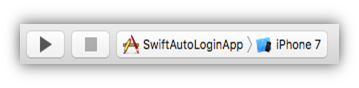
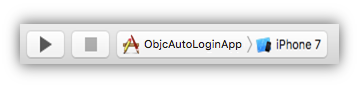
fix readme objective-c

Changed region(s): [[0.3983, 0.4318, 0.6741, 0.5909]]

diff --git a/README.md b/README.md
@@ -1,4 +1,4 @@
-# 【iOS Swift】自動ログイン機能を実装しよう！
+# 【iOS Objective-C】自動ログイン機能を実装しよう！
 ![画像1](/readme-img/001.png)
 
 ## 概要
@@ -14,10 +14,10 @@
 ![画像2](/readme-img/002.png)
 
 ## 動作環境
-* Mac OS X 10.12(Sierra)
-* Xcode ver. 8.0
-* Simulator ver. 10.0
- * iPhone7
+* Mac OS X 10.11.6(El Capitan)
+* Xcode ver. 8.1
+* iPhone5 iOS 9.3.5
+* iPhone6s iOS 10.0.1
 
 ※上記内容で動作確認をしています。
 
@@ -34,21 +34,21 @@
 
 ### 2. GitHubからサンプルプロジェクトのダウンロード
 * 下記リンクをクリックしてプロジェクトをMacにダウンロードします
- * __[SwiftAutoLoginApp](https://github.com/natsumo/SwiftAutoLoginApp/archive/master.zip)__
+ * __[ObjcAutoLoginApp](https://github.com/NIFTYCloud-mbaas/ObjcAutoLoginApp/archive/master.zip)__
 
 ### 3. Xcodeでアプリを起動
-* ダウンロードしたフォルダを開き、「`SwiftAutoLoginApp.xcodeproj`」をダブルクリックしてXcode開きます
+* ダウンロードしたフォルダを開き、「`ObjcAutoLoginApp.xcodeproj`」をダブルクリックしてXcode開きます
 
 ![画像9](/readme-img/009.png)
 
 ![画像6](/readme-img/006.png)
 
-* 「SwiftAutoLoginApp.xcodeproj」（青い方）ではないので注意してください！
+* 「ObjcAutoLoginApp.xcodeproj」（青い方）ではないので注意してください！
 
 ![画像8](/readme-img/008.png)
 
 ### 4. APIキーの設定
-* `AppDelegate.swift`を編集します
+* `AppDelegate.m`を編集します
 * 先程[ニフティクラウドmobile backend](http://mb.cloud.nifty.com/)のダッシュボード上で確認したAPIキーを貼り付けます
 
 ![画像7](/readme-img/007.png)
@@ -106,119 +106,98 @@
 ここではサンプルアプリに実装済みの内容について紹介します
 
 ### SDKのインポートと初期設定
-* ニフティクラウドmobile backend のドキュメント（クイックスタート）をSwift版に書き換えたドキュメントをご用意していますので、ご活用ください
- * [SwiftでmBaaSを始めよう！(＜CocoaPods＞でuse_framewoks!を有効にした方法)](http://qiita.com/natsumo/items/57d3a4d9be16b0490965)
+* ニフティクラウドmobile backend の[ドキュメント（クイックスタート）](http://mb.cloud.nifty.com/doc/current/introduction/quickstart_ios.html)をご活用ください
 
 ### ロジック
-* `Main.storyboard`でデザインを作成し、`ViewController.swift`にロジックを書いています
+* `Main.storyboard`でデザインを作成し、`ViewController.m`にロジックを書いています
 
 #### 自動ログイン処理
-```swift
-//
-//  ViewController.swift
-//  SwiftAutoLoginApp
-//
-//  Created by Natsumo Ikeda on 2016/10/26.
-//  Copyright © 2016年 NIFTY Corporation. All rights reserved.
-//
-import UIKit
-import NCMB
+```objc
+#import "ViewController.h"
+#import <NCMB/NCMB.h>
 
-class ViewController: UIViewController {
-    // label
-    @IBOutlet weak var greetingMessage: UILabel!
-    @IBOutlet weak var lastVisit: UILabel!
-    @IBOutlet weak var dayAndTime: UILabel!
+@interface ViewController ()
+// label
+@property (weak, nonatomic) IBOutlet UILabel *greetingMessage;
+@property (weak, nonatomic) IBOutlet UILabel *lastVisit;
+@property (weak, nonatomic) IBOutlet UILabel *dayAndTime;
 
-    override func viewDidLoad() {
-        super.viewDidLoad()
-        // labelの初期化
-        greetingMessage.text = ""
-        lastVisit.text = ""
-        dayAndTime.text = ""
+@end
 
-        // UUID取得
-        let uuid = UIDevice.current.identifierForVendor?.uuidString
-        print("uuid:\(uuid)")
+@implementation ViewController
 
-        /* mBaaSログイン */
-        NCMBUser.logInWithUsername(inBackground: uuid, password: uuid) { (user, login_error) in
-            if login_error != nil {
-                // ログイン失敗時の処理
-                let login_err : NSError = login_error as! NSError
-                print("ログインに失敗しました。エラーコード：\(login_err.code)")
+- (void)viewDidLoad {
+    [super viewDidLoad];
+    // labelの初期化
+    self.greetingMessage.text = @"";
+    self.lastVisit.text = @"";
+    self.dayAndTime.text = @"";
 
-                // 初回利用（会員未登録）の場合
-                if login_err.code == 401002 { // 401002：ID/Pass認証エラー
-                    /* mBaaS会員登録 */
-                    let new_user = NCMBUser()
-                    new_user.userName = uuid
-                    new_user.password = uuid
-                    new_user.signUpInBackground({ (signUp_error) in
-                        if signUp_error != nil {
-                            // 会員登録失敗時の処理
-                            let signUp_err = signUp_error as! NSError
-                            print("会員登録に失敗しました。エラーコード：\(signUp_err.code)")
-                        } else {
-                            // 会員登録成功時の処理
-                            print("会員登録に成功しました。")
+    // UUID取得
+    NSString *uuid = [[[UIDevice currentDevice] identifierForVendor] UUIDString];
+    NSLog(@"uuid:%@",uuid);
 
-                            self.greetingMessage.text = "はじめまして！"
+    [NCMBUser logInWithUsernameInBackground:uuid password:uuid block:^(NCMBUser *user, NSError *error) {
+        if (error) {
+            // ログイン失敗時の処理
+            NSLog(@"ログインに失敗しました。エラーコード：%ld",(long)error.code);
+            // 初回利用（会員未登録）の場合
+            if (error.code == 401002) { // 401002：ID/Pass認証エラー
+                /* mBaaS会員登録 */
+                NCMBUser *user = [NCMBUser user];
+                user.userName = uuid;
+                user.password = uuid;
 
-                            /* mBaaSデータの保存 */
-                            let lastLoginDate = new_user.updateDate
-                            new_user.setObject(lastLoginDate, forKey: "lastLoginDate")
-                            new_user.saveInBackground({ (save_error) in
-                                if save_error != nil {
-                                    // 保存失敗時の処理
-                                    let save_err = save_error as! NSError
-                                    print("最終ログイン日時の保存に失敗しました。エラーコード：\(save_err.code)")
-
-                                } else {
-                                    // 保存成功時の処理
-                                    print("最終ログイン日時の保存に成功しました。")
-
-                                }
-                            })
-
-                        }
-                    })
-                }
-
-            } else {
-                // ログイン成功時の処理
-                print("ログインに成功しました")
-
-                self.greetingMessage.text = "おかえりなさい"
-                self.lastVisit.text = "最終ログイン"
-
-                // 最終ログイン日時取得
-
-                let lastLoginDate = user?.object(forKey: "lastLoginDate") as! Date
-                let formatter = DateFormatter()
-                formatter.dateFormat = "yyyy/MM/dd HH:mm:ss"
-                let dateStr = formatter.string(from: lastLoginDate)
-                self.dayAndTime.text = "\(dateStr)"
-
-                // ログイン日時の上書き
-                let updateDate = user?.updateDate
-                user?.setObject(updateDate, forKey: "lastLoginDate")
-                user?.saveInBackground({ (save_error) in
-                    if save_error != nil {
-                        // 保存失敗時の処理
-                        let save_err = save_error as! NSError
-                        print("最終ログイン日時の保存に失敗しました。エラーコード：\(save_err.code)")
-
+                [user signUpInBackgroundWithBlock:^(NSError *error) {
+                    if (error) {
+                        // 会員登録失敗時の処理
+                        NSLog(@"会員登録に失敗しました。エラーコード：%ld",(long)error.code);
                     } else {
-                        // 保存成功時の処理
-                        print("最終ログイン日時の保存に成功しました。")
+                        // 会員登録成功時の処理
+                        NSLog(@"会員登録に成功しました。");
+                        self.greetingMessage.text = @"はじめまして！";
+
+                        /* mBaaSデータの保存 */
+                        // 最終ログイン時間をセット
+                        [user setObject:user.updateDate forKey:@"lastLoginDate"];
+                        [user saveInBackgroundWithBlock:^(NSError *error) {
+                            if (error) {
+                                // 保存失敗時の処理
+                                NSLog(@"最終ログイン日時の保存に失敗しました。エラーコード：%ld",(long)error.code);
+                            } else {
+                                // 保存成功時の処理
+                                NSLog(@"最終ログイン日時の保存に成功しました。");
+                            }
+                        }];
                     }
-                })
+                }];
             }
+        } else {
+            // ログイン成功時の処理
+            NSLog(@"ログインに成功しました");
+
+            self.greetingMessage.text = @"おかえりなさい";
+            self.lastVisit.text = @"最終ログイン";
+            // 最終ログイン日時取得
+            NSDateFormatter *formatter = [[NSDateFormatter alloc] init];
+            formatter.dateFormat = @"yyyy/MM/dd HH:mm:ss"; // 日付のフォーマット
+            self.dayAndTime.text = [formatter stringFromDate:user.updateDate];
+
+            // ログイン日時の上書き
+            [user setObject:user.updateDate forKey:@"lastLoginDate"];
+            [user saveInBackgroundWithBlock:^(NSError *error) {
+                if (error) {
+                    // 保存失敗時の処理
+                    NSLog(@"最終ログイン日時の保存に失敗しました。エラーコード：%ld",(long)error.code);
+                } else {
+                    // 保存成功時の処理
+                    NSLog(@"最終ログイン日時の保存に成功しました。");
+                }
+            }];
         }
-    }
+    }];
 }
 ```
 
-* 同じ内容の【Objective-C】版もご用意しています
- * https://github.com/NIFTYCloud-mbaas/ObjcAutoLoginApp
+* 同じ内容の【Swift】版もご用意しています
+ * https://github.com/NIFTYCloud-mbaas/SwiftAutoLoginApp
